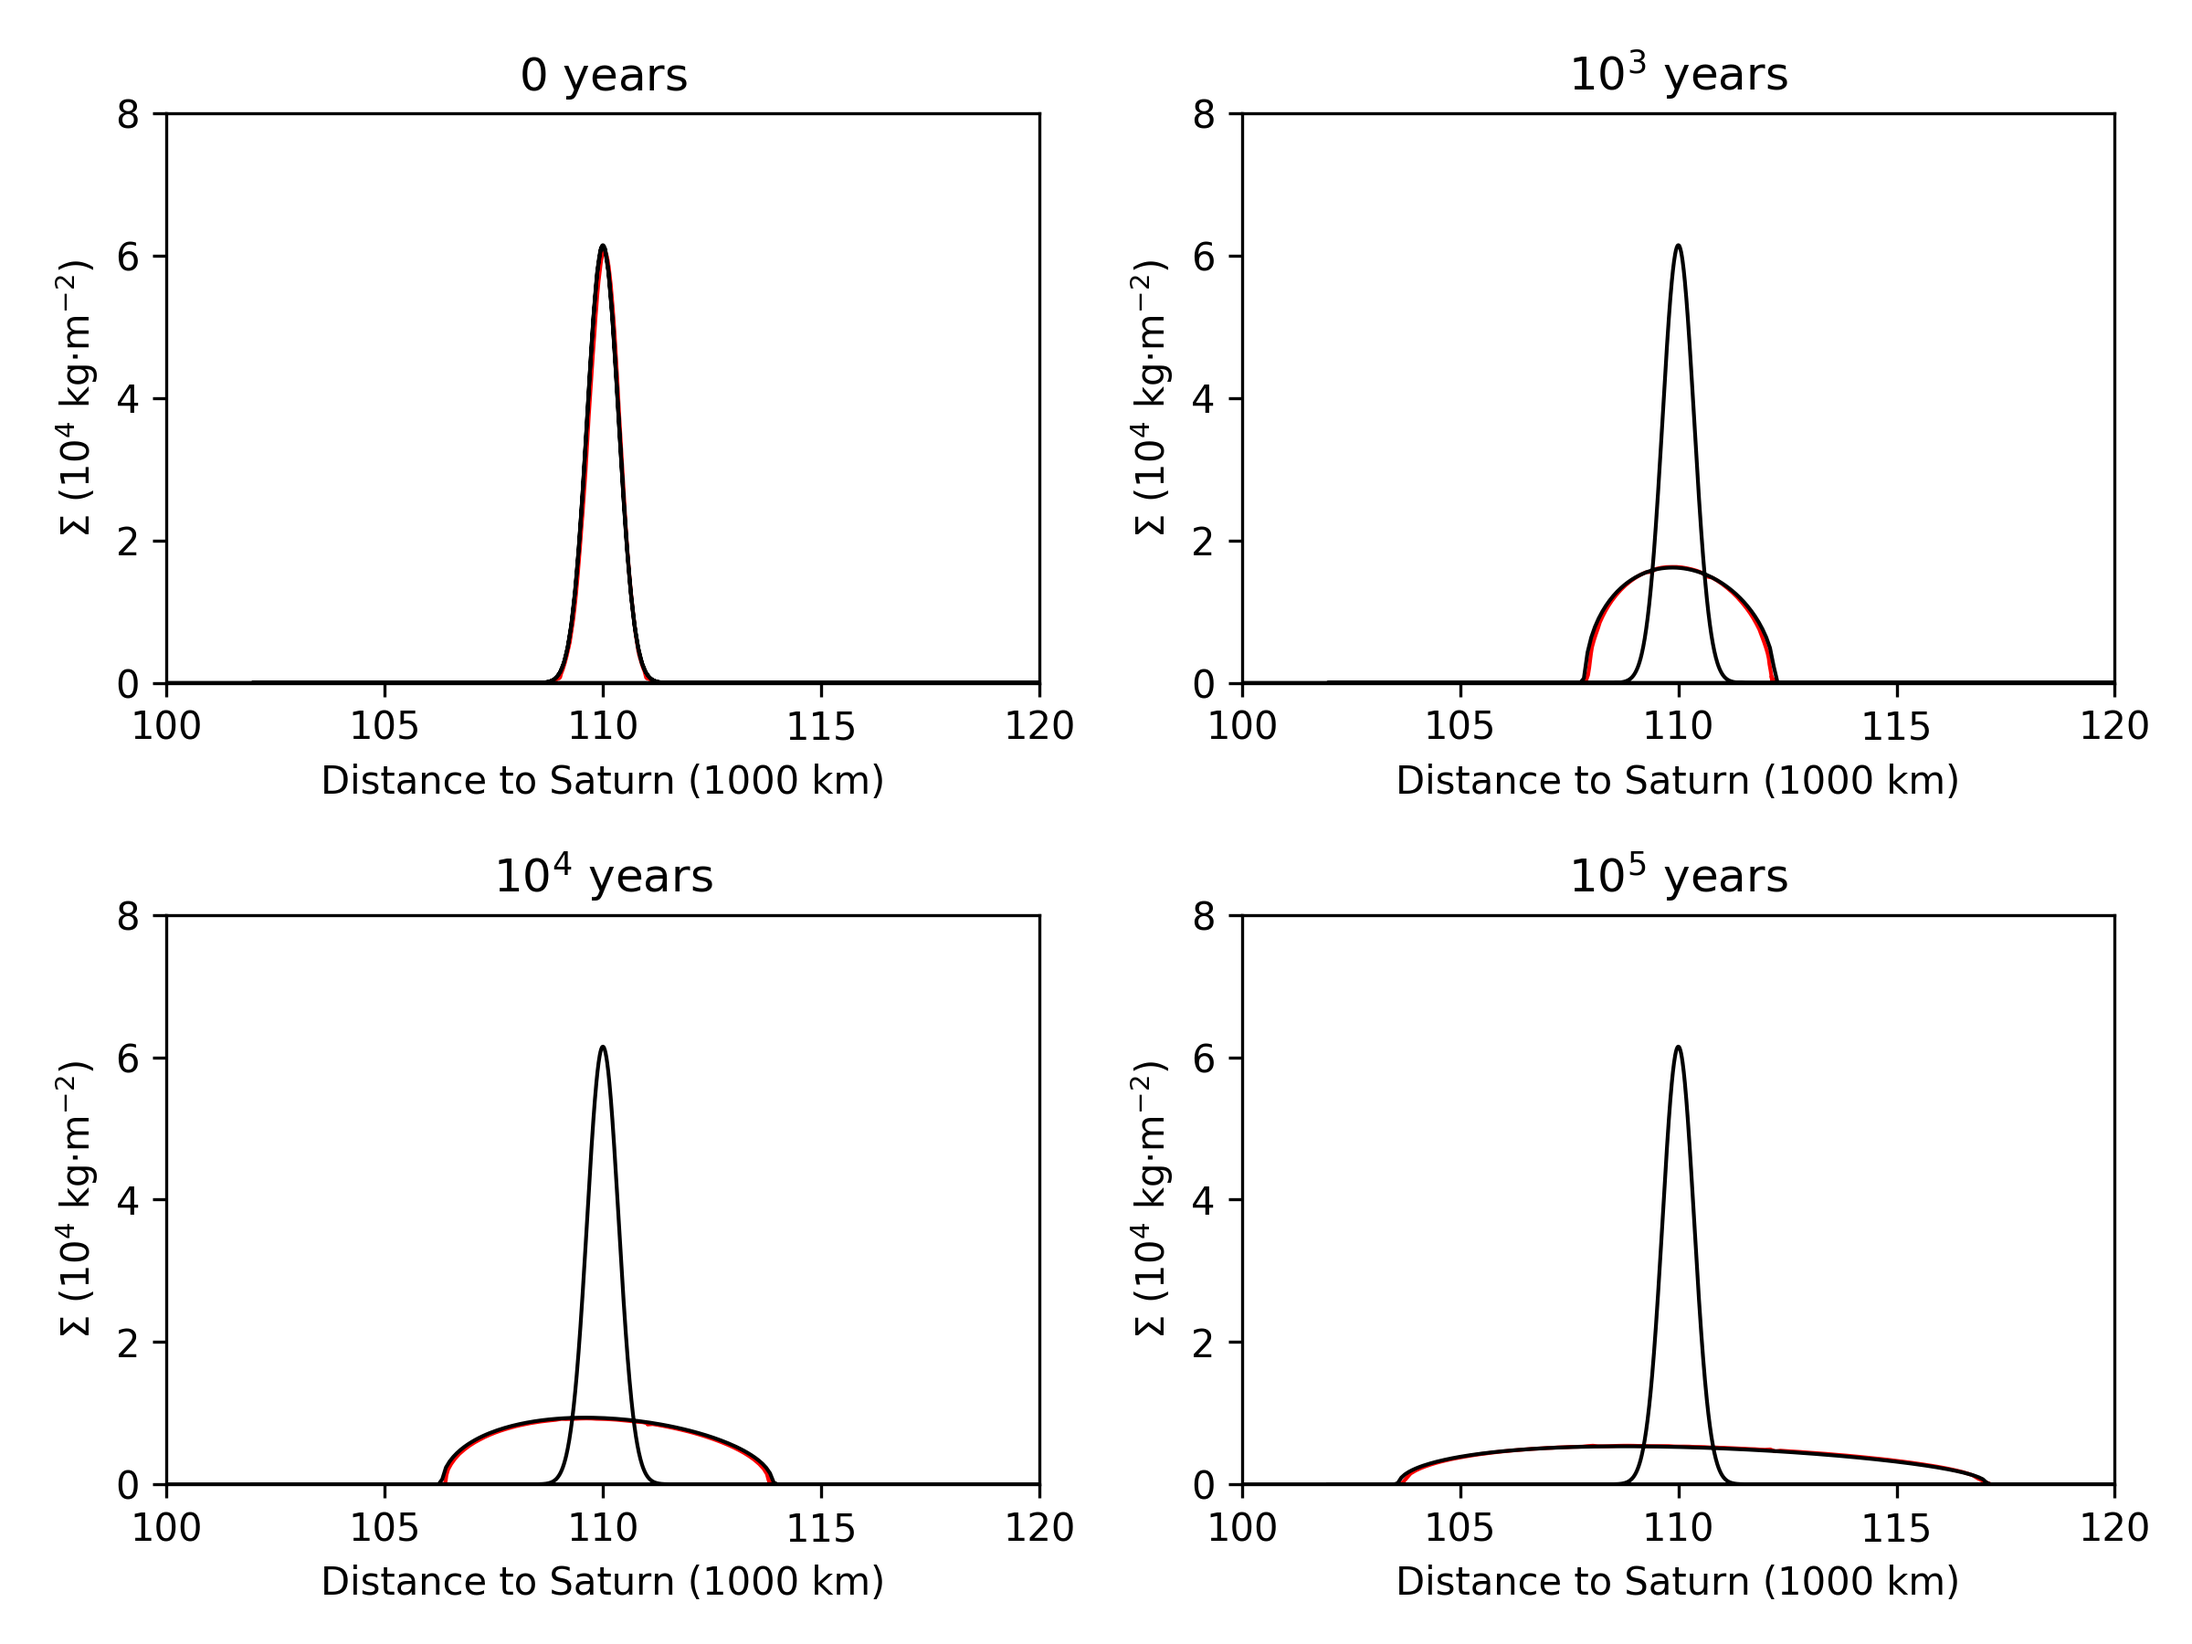
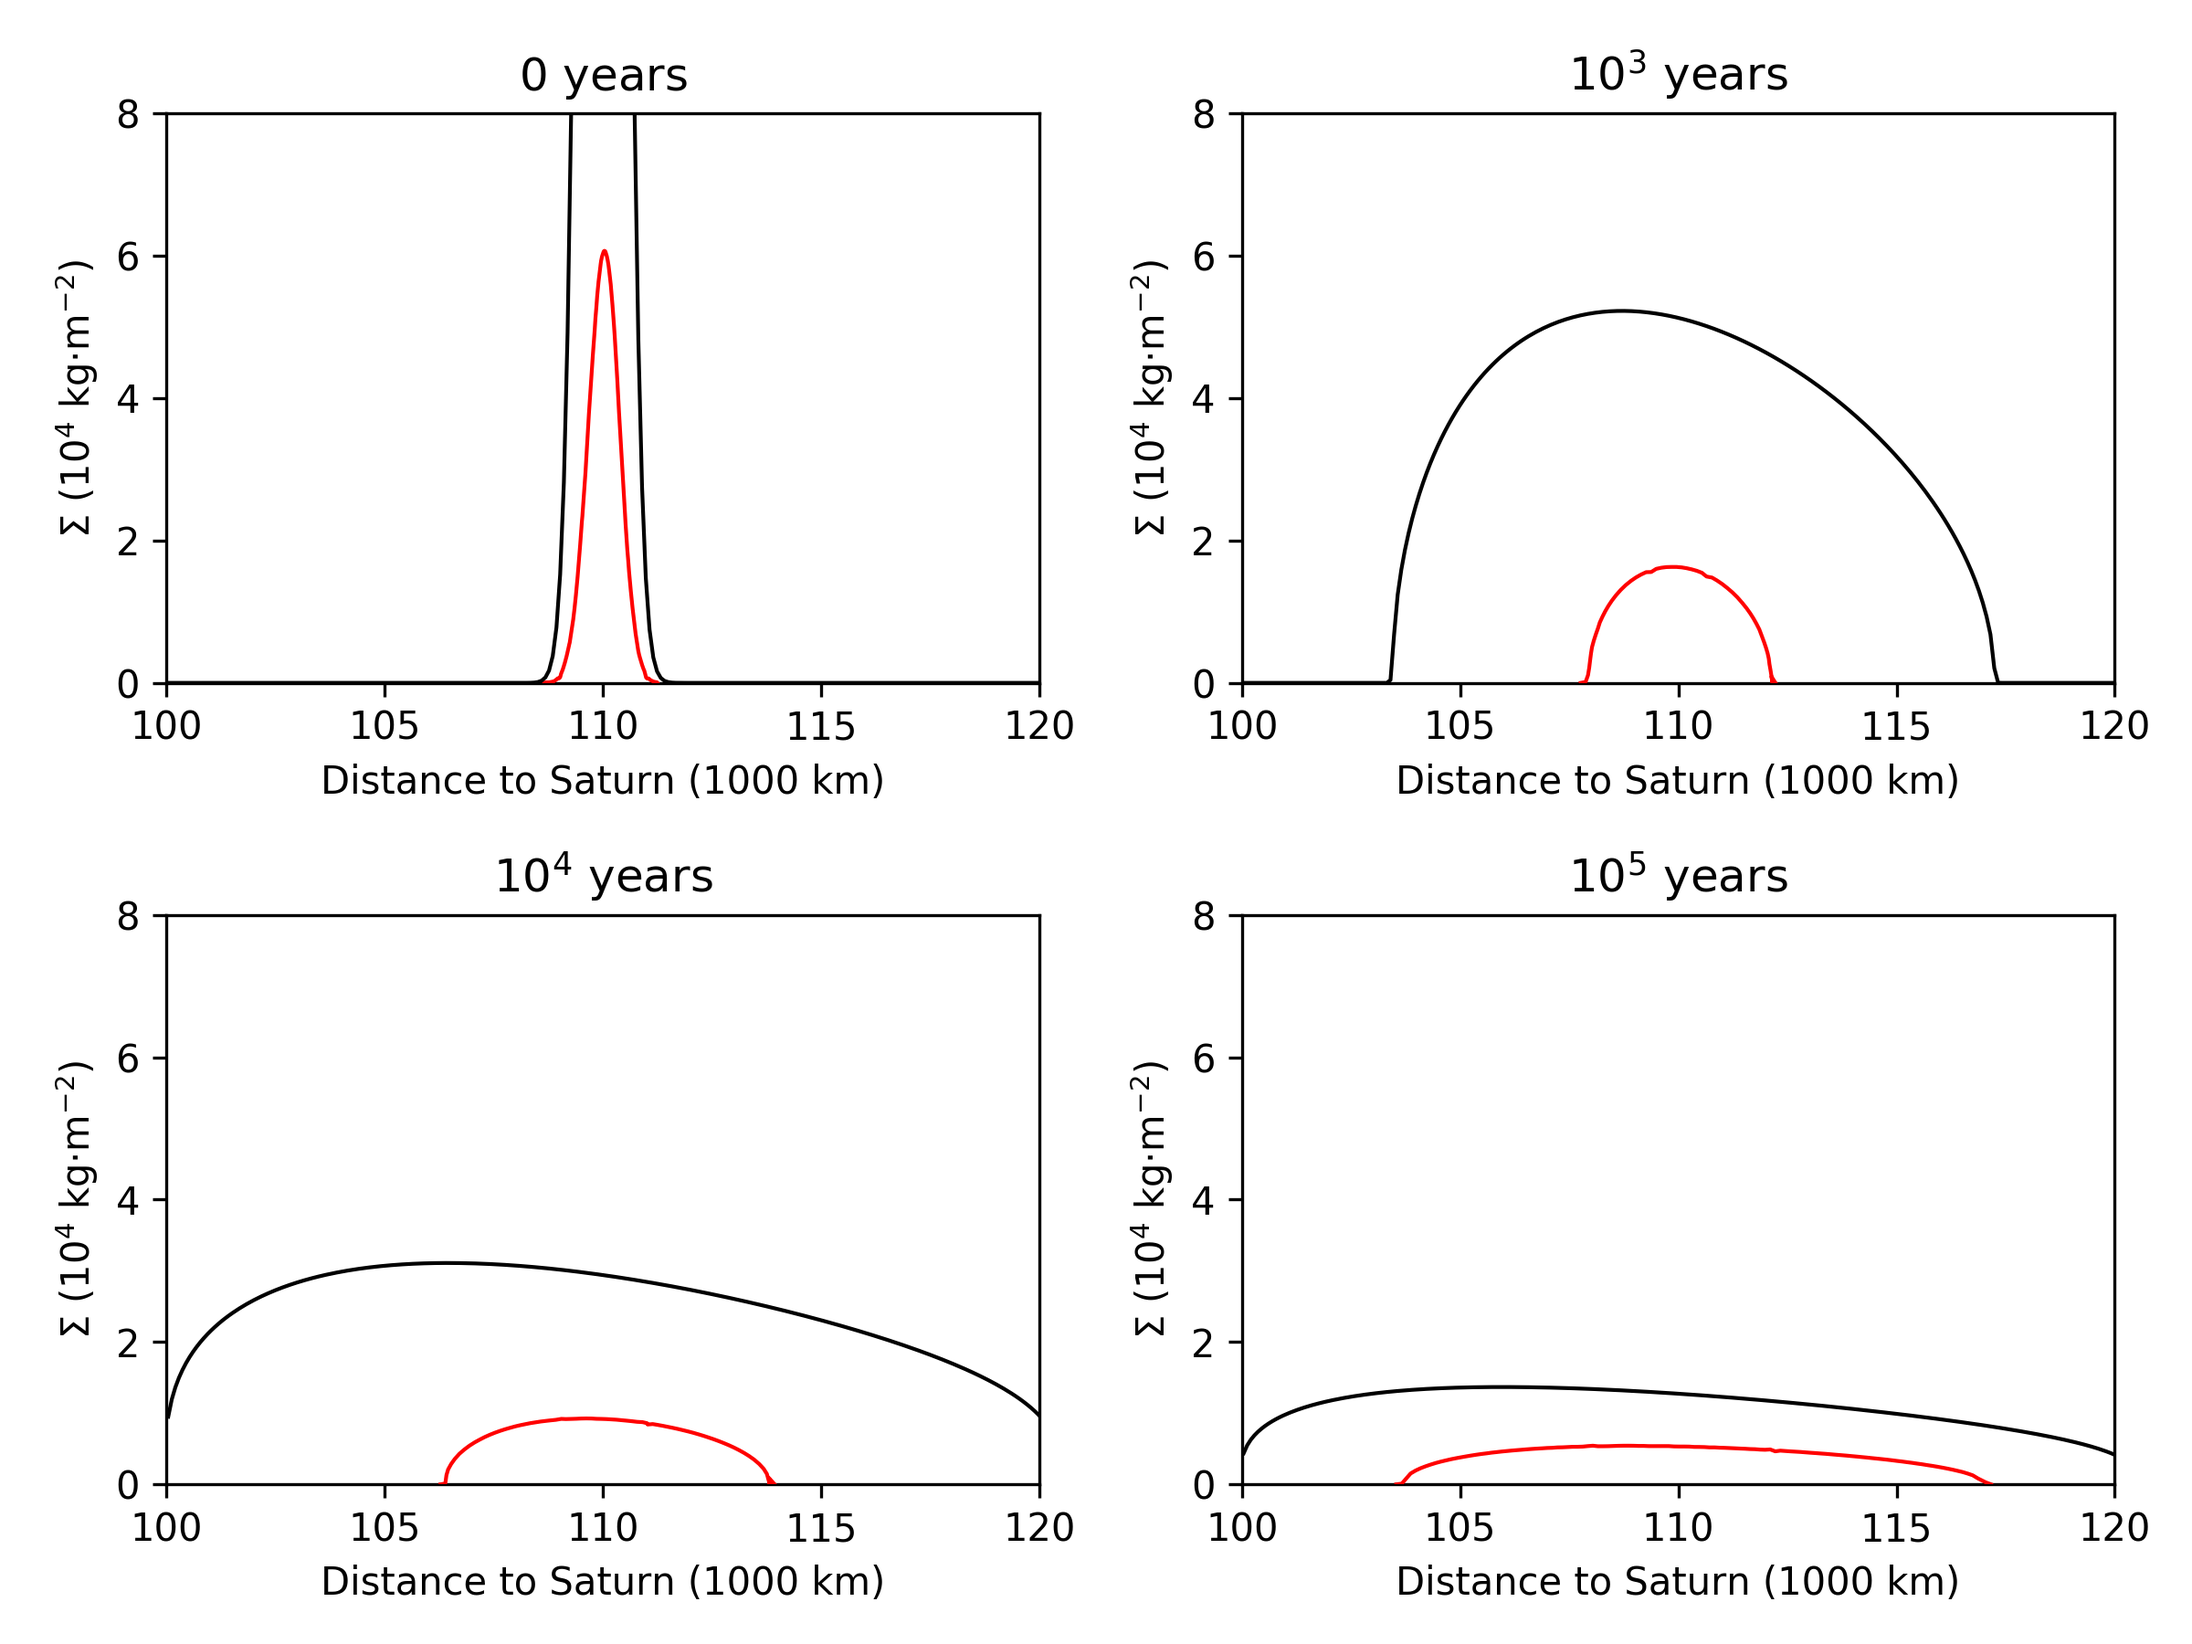
Original stability limit was wrong and overly conservative. Vast performance improvement with correct timestep stability

diff --git a/example/Salmon_et_al_2010-Saturn_Ring_Viscosity_test/Init_Cond.py b/example/Salmon_et_al_2010-Saturn_Ring_Viscosity_test/Init_Cond.py
@@ -3,16 +3,41 @@ from typing import List, Any
 import numpy as np
 import sys
 
-
-
-###***Define initial conditions***###
-
 #Units will be in terms of planet mass, planet radius, and years
 G	    = 6.674e-8                          #Gravitational constant (cgs)
 year    = 3600*24*365.25                #seconds in 1 year
 AU      = 1.4960e13
 M_Sun   = 1.9891e33
+
+
+#The following are Unit conversion factors
+MU2GM    =     1000.0 #M_Saturn          #Conversion from mass unit to grams
+DU2CM    =     100.0 #R_Saturn                       #Conversion from radius unit to centimeters
+TU2S     =     1.0 #year                           #Conversion from time unit to seconds
+GU       = G / (DU2CM**3 / (MU2GM * TU2S**2))
+
+r_pdisk = 1.00  #disk particle size
+rho_pdisk = 900.0 # Satellite/ring particle mass density in gm/cm**3
+r_I	= 100e6      #inside radius of disk is at the embryo's surface
+r_F	= 120.47646073197e6  #outside radius of disk
+
+
+centroid = 110.00e6  # radius of the center of the gaussian
+spread = 360e3  # width of the gaussian
+sigma_peak = 6.15e4  # scale factor to get a given mass
+
+t_0	= 0
+t_print = 1.e2 * year / TU2S #output interval to print results
+deltaT	= 1.e2 * year / TU2S  #timestep simulation
+end_sim = 1.e5 * year / TU2S + deltaT #end time
+
 N   = 2400           #number of bins in disk
+
+
+###***Define initial conditions***###
+
+
+
 
 M_Saturn    = 5.6834e29
 R_Saturn    = 60268.0e5
@@ -28,16 +53,12 @@ k_2         = 0.104 #tidal love number for primary
 Q           = 3000. #tidal dissipation factor for primary
 Q_s         = 1.0e-5    #tidal dissipation factor for satellites
 
-rho_sat = 900.0 # Satellite/ring particle mass density in gm/cm**3
+
 
 J2 = 0.0 #Add these in later
 J4 = 0.0
 
-#The following are Unit conversion factors
-MU2GM    =     1000.0 #M_Saturn          #Conversion from mass unit to grams
-DU2CM    =     100.0 #R_Saturn                       #Conversion from radius unit to centimeters
-TU2S     =     1.0 #year                           #Conversion from time unit to seconds
-GU       = G / (DU2CM**3 / (MU2GM * TU2S**2))
+
 
 #Primary body definitions
 RP    = R_Saturn / DU2CM #1.0
@@ -51,13 +72,12 @@ LP =  IP * wP
 
 ###For the disk:
 
-r_pdisk = 1.0  #disk particle size
-m_pdisk = (4.0 * np.pi*r_pdisk**3)/3.0 * rho_sat   #disk particle size (mass in g)
+
+m_pdisk = (4.0 * np.pi*r_pdisk**3)/3.0 * rho_pdisk   #disk particle size (mass in g)
 
 # gamma	= 0.3	    #ang momentum efficiency factor
 inside = 0  #bin id of innermost ring bin (can increase if primary accretes a lot mass through 'Update.py'
-r_I	= 100e6      #inside radius of disk is at the embryo's surface
-r_F	= 120.47646073197e6  #outside radius of disk
+
 deltar = (r_F - r_I) / N	#width of a bin
 deltaX = (2 * np.sqrt(r_F) - 2 * np.sqrt(r_I)) / N  #variable changed bin width used for viscosity calculations
 r = []
@@ -84,9 +104,7 @@ def f(x):
             sigma.append(m[a]/deltaA[a])
         #Gaussian surface mass density profile
         elif x == 1:
-            centroid = 110.00e6    #radius of the center of the gaussian
-            spread = 360e3      #width of the gaussian
-            sigma_peak = 6.15e4 #scale factor to get a given mass
+
             sigma.append(sigma_peak * np.exp(-(r[a]-centroid)**2/(2*spread**2)))
             m.append(sigma[a]*deltaA[a])
         else:
@@ -109,10 +127,7 @@ for a in range(int(N)):
     print(GU * sigma[a],file=outfile)
 
 
-t_0	= 0
-end_sim = 1.1e5 * year / TU2S  #end time
-t_print = 1.e2 * year / TU2S #output interval to print results
-deltaT	= 1.e2 * year / TU2S  #timestep simulation
+
 
 
 

diff --git a/example/Salmon_et_al_2010-Saturn_Ring_Viscosity_test/plot_sigma_evolution.py b/example/Salmon_et_al_2010-Saturn_Ring_Viscosity_test/plot_sigma_evolution.py
@@ -50,7 +50,7 @@ with open(ringfile) as f:
         r[i] = vals[0]
         sigma[i] = vals[1] / ic.GU
         nu[i] = vals[2]
-axes['a'].plot(r*1e-6, sigma*1e-4, '-', color="black", linewidth=1.0, zorder = 50)
+axes['a'].plot(r* ic.DU2CM * 1e-8, sigma * ic.MU2GM / ic.DU2CM**2 * 1e-3, '-', color="black", linewidth=1.0, zorder = 50)
 
 ringfile = 'test.1e3y'
 with open(ringfile) as f:
@@ -58,7 +58,7 @@ with open(ringfile) as f:
         vals = [float(x) for x in line.split()]
         r[i] = vals[0]
         sigma[i] = vals[1] / ic.GU
-axes['b'].plot(r*1e-6, sigma*1e-4, '-', color="black", linewidth=1.0, zorder = 50)
+axes['b'].plot(r* ic.DU2CM * 1e-8, sigma * ic.MU2GM / ic.DU2CM**2 * 1e-3, '-', color="black", linewidth=1.0, zorder = 50)
 
 ringfile = 'test.1e4y'
 with open(ringfile) as f:
@@ -66,7 +66,7 @@ with open(ringfile) as f:
         vals = [float(x) for x in line.split()]
         r[i] = vals[0]
         sigma[i] = vals[1] / ic.GU
-axes['c'].plot(r*1e-6, sigma*1e-4, '-', color="black", linewidth=1.0, zorder = 50)
+axes['c'].plot(r* ic.DU2CM * 1e-8, sigma * ic.MU2GM / ic.DU2CM**2 * 1e-3, '-', color="black", linewidth=1.0, zorder = 50)
 
 ringfile = 'test.1e5y'
 with open(ringfile) as f:
@@ -74,10 +74,10 @@ with open(ringfile) as f:
         vals = [float(x) for x in line.split()]
         r[i] = vals[0]
         sigma[i] = vals[1]/ ic.GU
-axes['d'].plot(r*1e-6, sigma*1e-4, '-', color="black", linewidth=1.0, zorder = 50)
+axes['d'].plot(r* ic.DU2CM * 1e-8, sigma * ic.MU2GM / ic.DU2CM**2 * 1e-3, '-', color="black", linewidth=1.0, zorder = 50)
 
 Visc5.f(1,ic.MP, ic.RP,t=0.0)
-print(f'nu = {Visc5.nu[1199], nu[1199]} m^2 s^-1')
+#print(f'nu = {Visc5.nu[599], nu[599]} m^2 s^-1')
 
 figure.tight_layout()
 #plt.show()
